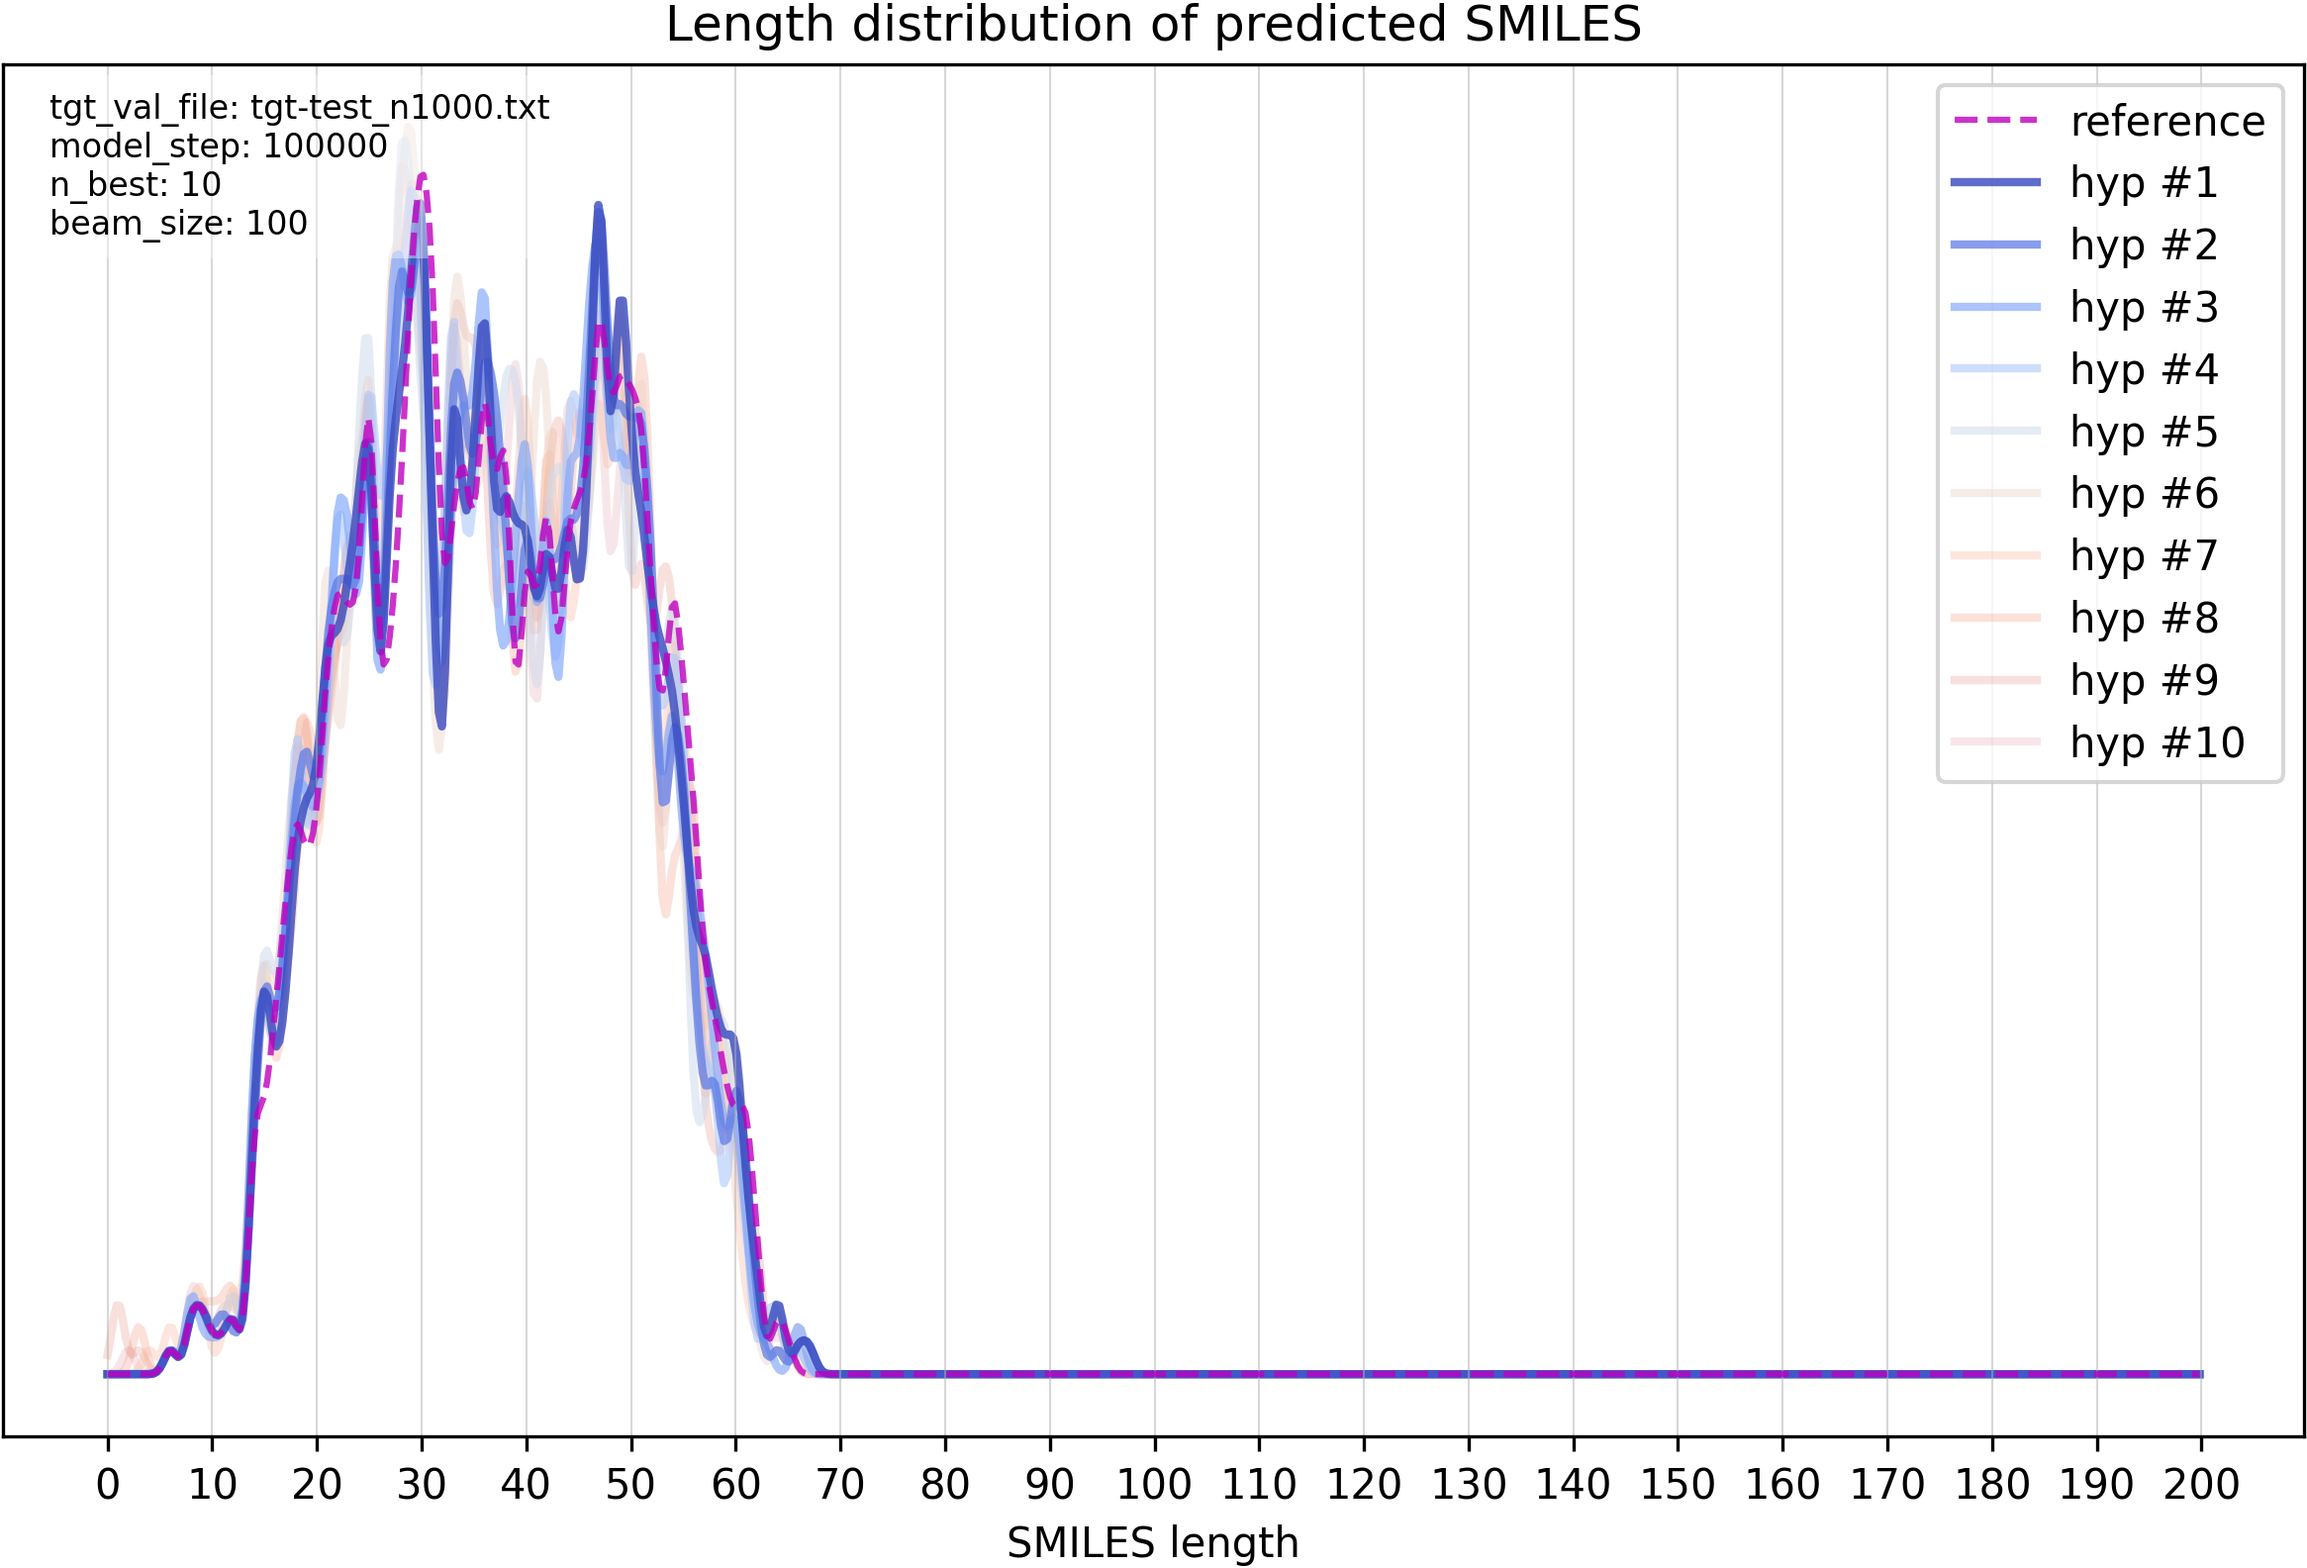
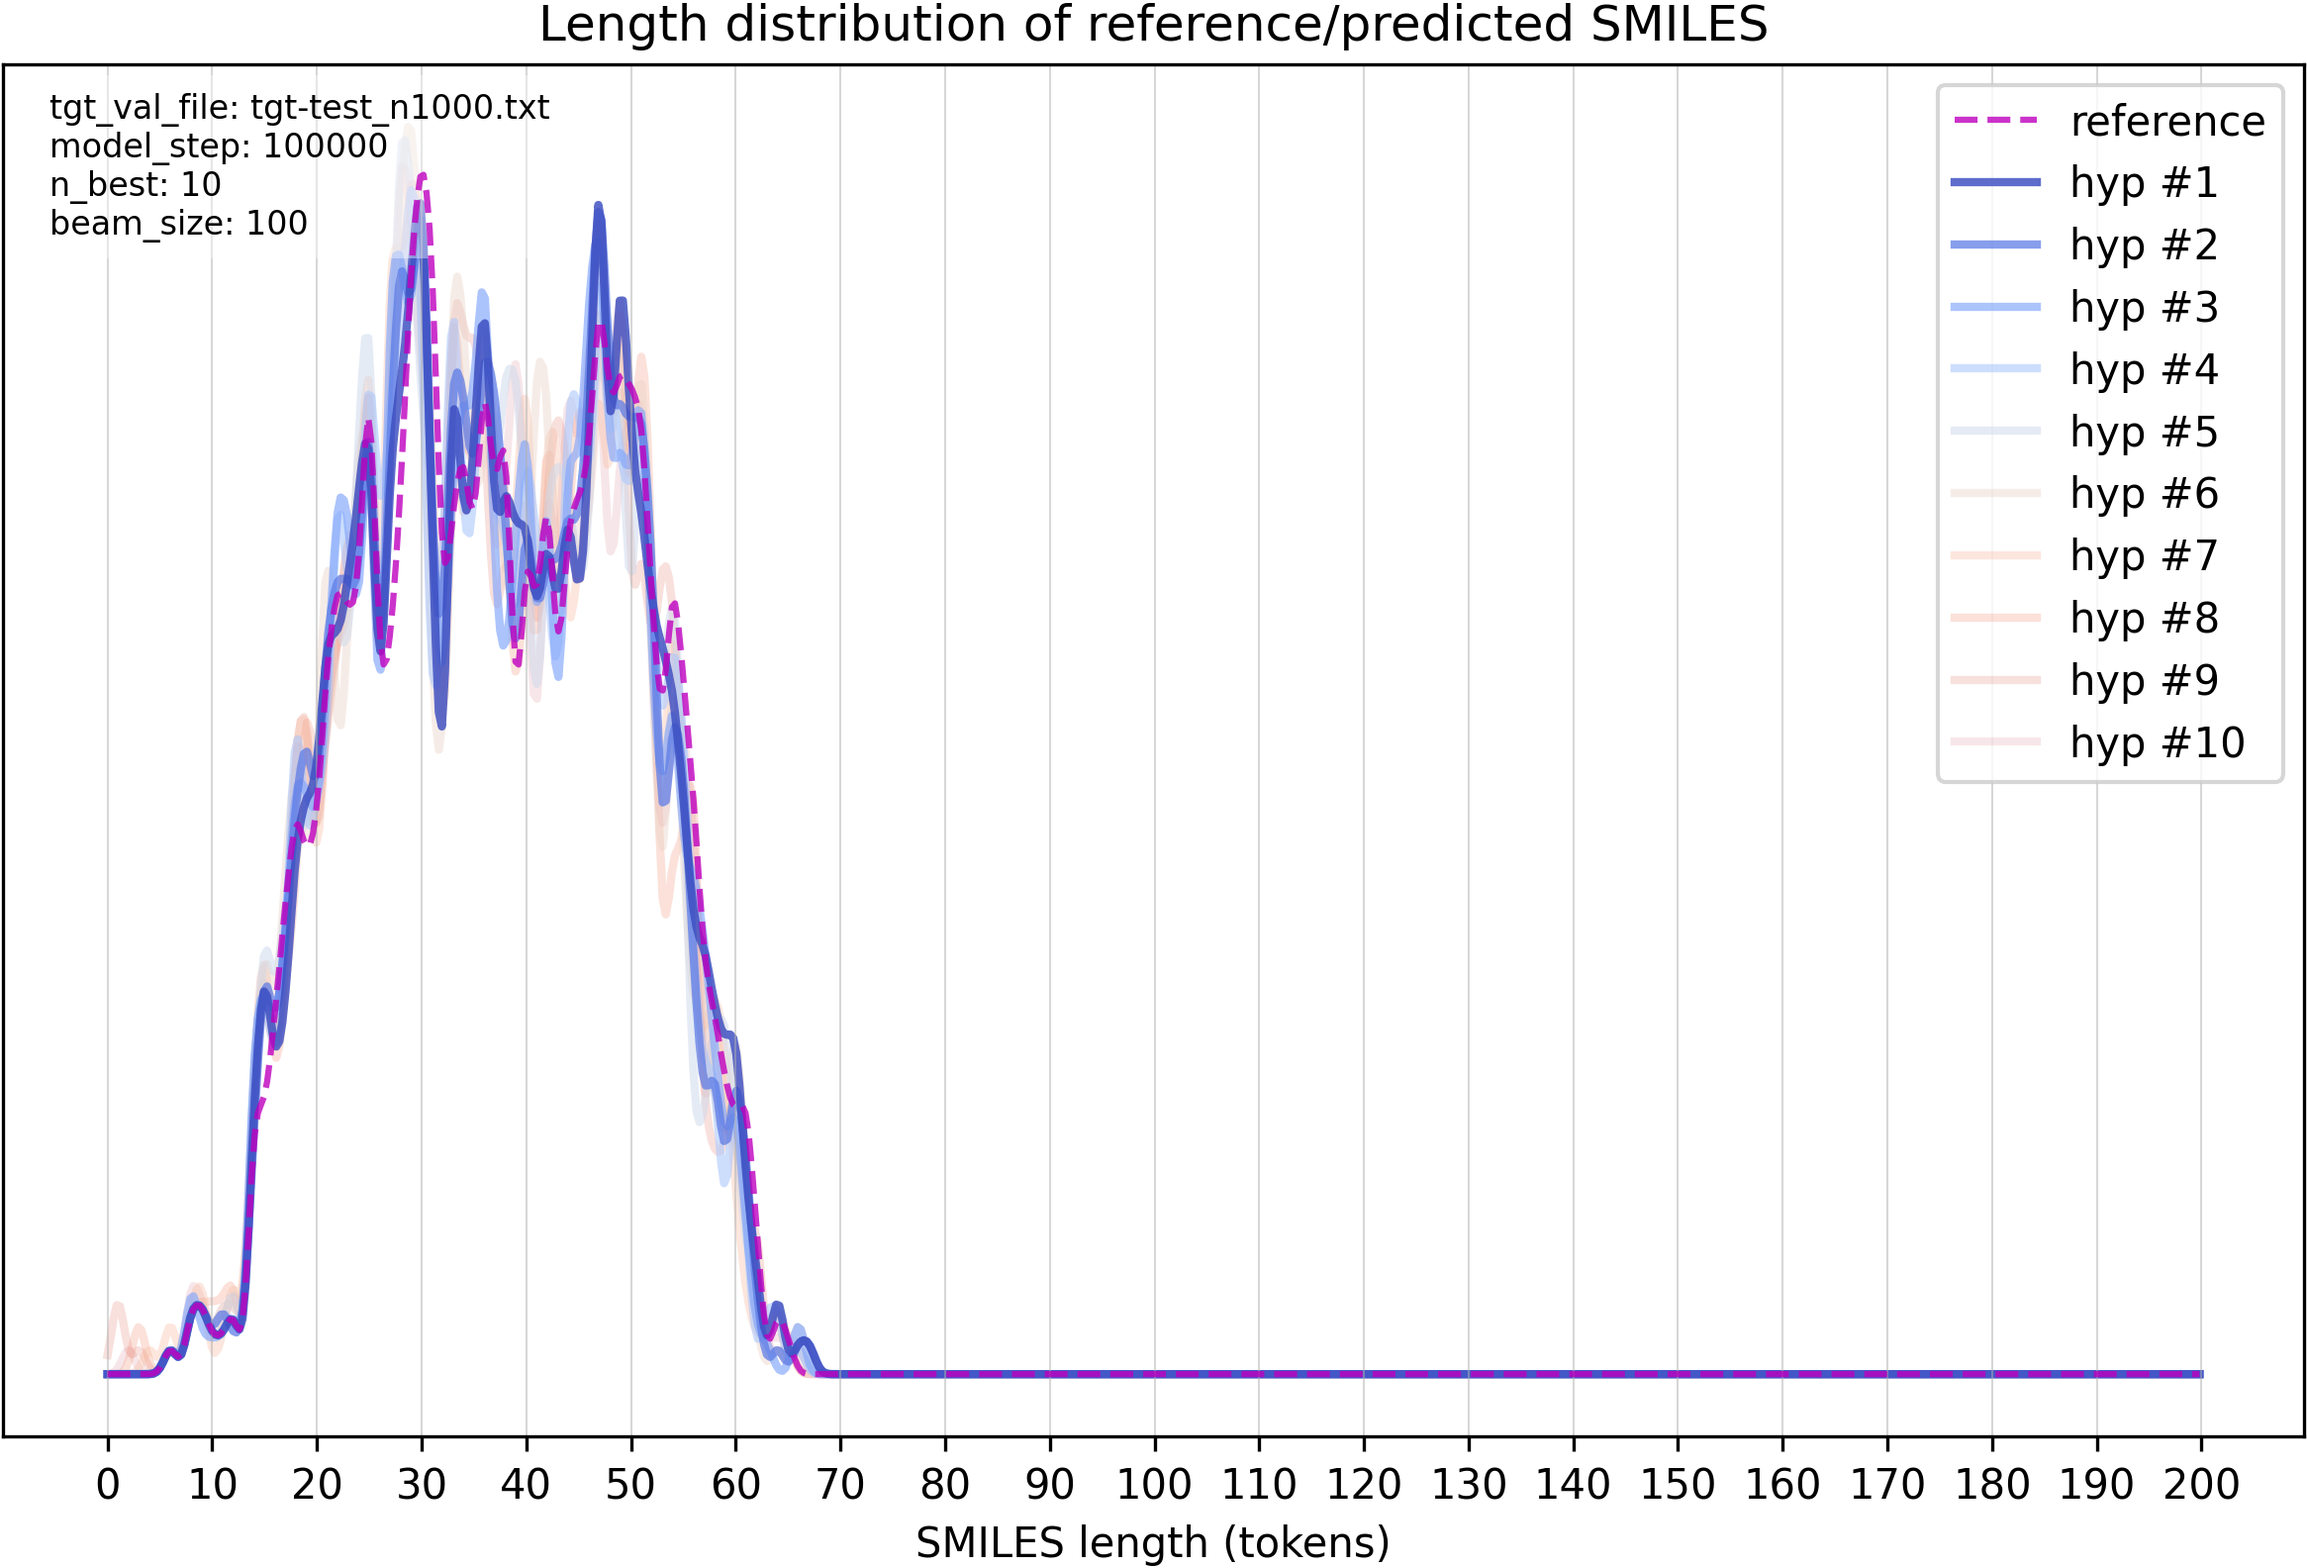
better labels

Changed region(s): [[0.2471, 0.0, 0.7722, 0.0309], [0.4015, 0.959, 0.5869, 1.0]]

diff --git a/translate/l_lengths.py b/translate/l_lengths.py
@@ -118,7 +118,7 @@ def process_translation(translation_file: Path):
 
         px.a.grid(True, lw=0.5, alpha=0.5, zorder=-100)
 
-        px.a.set_xlabel("SMILES length")
+        px.a.set_xlabel("SMILES length (tokens)")
         px.a.set_yticks([])
 
         # Set xticks/xlabels as multiples of 10
@@ -128,7 +128,7 @@ def process_translation(translation_file: Path):
         px.a.set_xticklabels([f"{x}" for x in px.a.get_xticks()])
 
 
-        px.a.set_title("Length distribution of predicted SMILES")
+        px.a.set_title("Length distribution of reference/predicted SMILES")
 
         px.a.legend()
 
